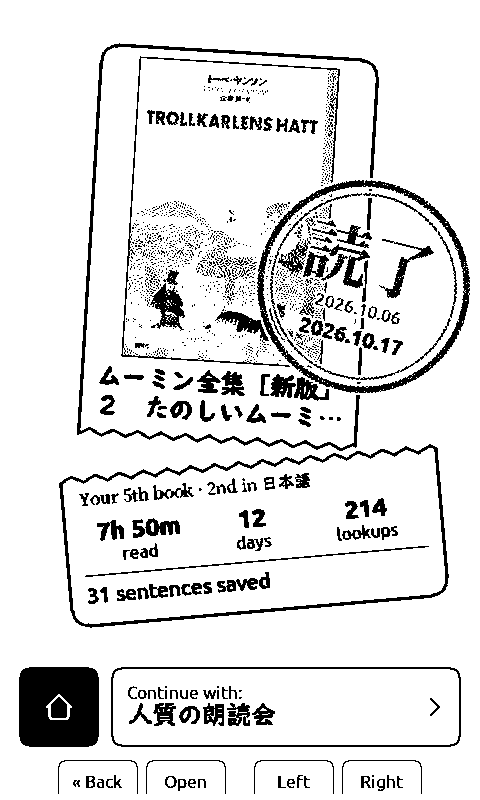
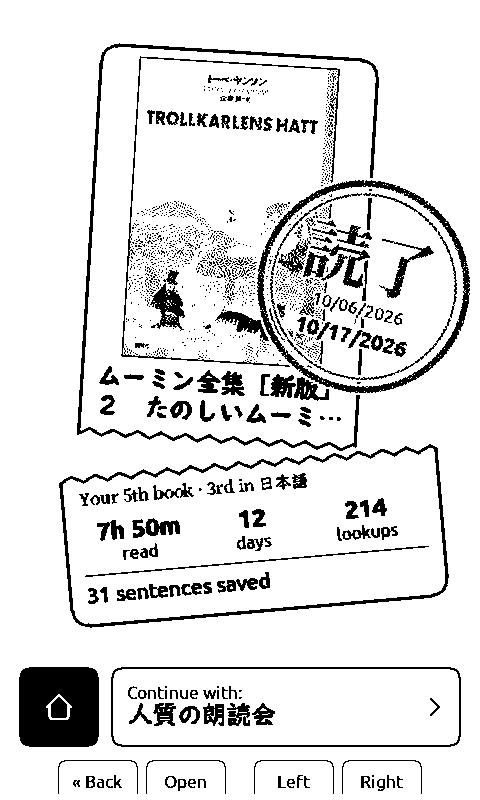
feat: show dates in the interface language
Dates on the end-of-book stamp, the book stats header and the calendar
heading follow each language's pattern (e.g. 17.10.2026, 2026年10月17日).
Japanese and Chinese use 2026.10.17 on the stamp, which is too narrow for
the full form. Stored and uploaded dates keep their fixed format.

Changed region(s): [[0.625, 0.3438, 0.8438, 0.4688], [0.4375, 0.5938, 0.6562, 0.625]]

diff --git a/test/reading_stats/ReadingStatsTest.cpp b/test/reading_stats/ReadingStatsTest.cpp
@@ -14,6 +14,7 @@
 
 #include "BookStats.h"
 #include "ReadingStatsStore.h"
+#include "util/DateFormat.h"
 
 namespace {
 
@@ -690,4 +691,46 @@ TEST_F(StatsTest, BookFinishedEarlierShowsItsLastReadingDayUnsaved) {
 
   ASSERT_TRUE(b.load(path));
   EXPECT_FALSE(b.getFinishDay(y, m, d)) << "a guessed day must not be saved";
+}
+
+// ---- Date display ----
+
+TEST(DateFormat, PatternsPadAndCarryText) {
+  char out[32];
+  formatDate(out, sizeof(out), "DD.MM.YYYY", 2026, 3, 7);
+  EXPECT_STREQ(out, "07.03.2026");
+  formatDate(out, sizeof(out), "YYYY年M月D日", 2026, 3, 7);
+  EXPECT_STREQ(out, "2026年3月7日");
+  formatDate(out, sizeof(out), "N YYYY", 2026, 3, 1, "March");
+  EXPECT_STREQ(out, "March 2026");
+  formatDate(out, sizeof(out), "YYYY. N", 2026, 3, 1, "Március");
+  EXPECT_STREQ(out, "2026. március") << "a month name mid-phrase is lowercased";
+  formatDate(out, 6, "DD.MM.YYYY", 2026, 3, 7);
+  EXPECT_STREQ(out, "07.03") << "truncates to fit";
+}
+
+// Every language's patterns use only known tokens and fit the stamp's 24-byte buffers.
+TEST(DateFormat, EveryLanguageHasUsablePatterns) {
+  auto& i18n = I18n::getInstance();
+  for (uint8_t l = 0; l < static_cast<uint8_t>(Language::_COUNT); l++) {
+    ASSERT_TRUE(i18n.setLanguage(static_cast<Language>(l)));
+    char date[64], heading[64];
+    formatDate(date, sizeof(date), tr(STR_DATE_FORMAT), 2026, 12, 31);
+    formatDate(heading, sizeof(heading), tr(STR_MONTH_YEAR_FORMAT), 2026, 12, 1, tr(STR_MONTH_DEC));
+    const char* code = i18n.getLanguageName(static_cast<Language>(l));
+    EXPECT_NE(strstr(date, "2026"), nullptr) << code << ": " << date;
+    EXPECT_NE(strstr(date, "31"), nullptr) << code << ": " << date;
+    EXPECT_NE(strstr(date, "12"), nullptr) << code << ": " << date;
+    EXPECT_EQ(strpbrk(date, "YMDN"), nullptr) << code << " left a token: " << date;
+    EXPECT_LT(strlen(date), 24u) << code << ": " << date;
+    // The stamp's dates sit inside its ring: CJK languages use the dotted hanko form there.
+    char stamp[24];
+    formatDate(stamp, sizeof(stamp), tr(STR_STAMP_DATE_FORMAT), 2026, 12, 31);
+    EXPECT_EQ(strpbrk(stamp, "YMDN"), nullptr) << code << " left a token: " << stamp;
+    EXPECT_LE(strlen(stamp), 14u) << code << ": " << stamp << " is too wide for the stamp";
+    EXPECT_NE(strstr(heading, tr(STR_MONTH_DEC) + 1), nullptr)
+        << code << ": " << heading;  // case of the first letter may change
+    EXPECT_NE(strstr(heading, "2026"), nullptr) << code << ": " << heading;
+  }
+  i18n.setLanguage(Language::EN);
 }

diff --git a/src/util/DateFormat.h b/src/util/DateFormat.h
@@ -1,0 +1,42 @@
+#pragma once
+#include <cstddef>
+#include <cstdint>
+#include <cstdio>
+#include <cstring>
+
+// Writes a date by a pattern: YYYY, MM and DD are zero-padded, M and D are not, N is `monthName`, lowercased
+// when it is not the first token ("2026. október"); every other byte is copied as is, so a pattern can carry
+// UTF-8 text ("YYYY年M月D日"). Truncates to fit `size`; callers size buffers so that never happens.
+// Display only: stored and uploaded dates keep a fixed format whatever the UI language.
+inline void formatDate(char* out, const size_t size, const char* pattern, const uint16_t year, const uint8_t month,
+                       const uint8_t day, const char* monthName = nullptr) {
+  if (size == 0) return;
+  size_t n = 0;
+  const auto put = [&](const char* s) {
+    for (; *s && n + 1 < size; s++) out[n++] = *s;
+  };
+  char num[8];
+  for (const char* p = pattern ? pattern : ""; *p;) {
+    if (*p == 'N') {
+      const size_t at = n;
+      put(monthName ? monthName : "");
+      if (p != pattern && at < n && out[at] >= 'A' && out[at] <= 'Z') out[at] = static_cast<char>(out[at] - 'A' + 'a');
+      p++;
+      continue;
+    }
+    if (strncmp(p, "YYYY", 4) == 0) {
+      snprintf(num, sizeof(num), "%04u", static_cast<unsigned>(year));
+      p += 4;
+    } else if (*p == 'M' || *p == 'D') {
+      const bool padded = p[1] == p[0];
+      snprintf(num, sizeof(num), padded ? "%02u" : "%u", static_cast<unsigned>(*p == 'M' ? month : day));
+      p += padded ? 2 : 1;
+    } else {
+      if (n + 1 < size) out[n++] = *p;
+      p++;
+      continue;
+    }
+    put(num);
+  }
+  out[n] = '\0';
+}

diff --git a/src/activities/home/BookStatsActivity.cpp b/src/activities/home/BookStatsActivity.cpp
@@ -15,6 +15,7 @@
 #include "components/icons/dictionaryIcons.h"
 #include "components/icons/stats_icons.h"
 #include "fontIds.h"
+#include "util/DateFormat.h"
 
 namespace {
 // Adapters that let StatsWidgets read a BookStats without knowing the type.
@@ -139,16 +140,16 @@ void BookStatsActivity::render(RenderLock&&) {
       // is then unknown rather than shown after the finish.
       const bool startKnown = !finished || std::tie(first.year, first.month, first.day) <=
                                                std::tie(marks.finishYear, marks.finishMonth, marks.finishDay);
-      char start[12] = {};
+      char start[24] = {};
       if (startKnown) {
         marks.startYear = first.year;
         marks.startMonth = first.month;
         marks.startDay = first.day;
-        snprintf(start, sizeof(start), "%04u.%02u.%02u", first.year, first.month, first.day);
+        formatDate(start, sizeof(start), tr(STR_DATE_FORMAT), first.year, first.month, first.day);
       }
       if (finished) {
-        char finish[12];
-        snprintf(finish, sizeof(finish), "%04u.%02u.%02u", marks.finishYear, marks.finishMonth, marks.finishDay);
+        char finish[24];
+        formatDate(finish, sizeof(finish), tr(STR_DATE_FORMAT), marks.finishYear, marks.finishMonth, marks.finishDay);
         snprintf(dateLine, sizeof(dateLine), startKnown ? "%s – %s" : "%s%s", start, finish);
       } else {
         snprintf(dateLine, sizeof(dateLine), tr(STR_STAT_SINCE_FORMAT), start);

diff --git a/src/activities/reader/EndOfBookOptions.cpp b/src/activities/reader/EndOfBookOptions.cpp
@@ -30,6 +30,7 @@
 #include "fontIds.h"
 #include "util/ButtonNavigator.h"
 #include "util/CjkScript.h"
+#include "util/DateFormat.h"
 #include "util/NextBookFinder.h"
 
 namespace {
@@ -358,13 +359,12 @@ void EndOfBookOptions::loadSummary(const std::string& bookPath, const char* book
   uint16_t year = today.year;
   uint8_t month = today.month, day = today.day;
   stats.getFinishDay(year, month, day);
-  snprintf(summary.finishedOn, sizeof(summary.finishedOn), "%04u.%02u.%02u", static_cast<unsigned>(year),
-           static_cast<unsigned>(month), static_cast<unsigned>(day));
+  formatDate(summary.finishedOn, sizeof(summary.finishedOn), tr(STR_STAMP_DATE_FORMAT), year, month, day);
   if (!stats.getDays().empty() && std::tie(stats.getDays().front().year, stats.getDays().front().month,
                                            stats.getDays().front().day) <= std::tie(year, month, day)) {
     const BookDay& first = stats.getDays().front();
-    snprintf(summary.startedOn, sizeof(summary.startedOn), "%04u.%02u.%02u", static_cast<unsigned>(first.year),
-             static_cast<unsigned>(first.month), static_cast<unsigned>(first.day));
+    formatDate(summary.startedOn, sizeof(summary.startedOn), tr(STR_STAMP_DATE_FORMAT), first.year, first.month,
+               first.day);
     if (strcmp(summary.startedOn, summary.finishedOn) == 0) summary.startedOn[0] = '\0';
   }
 

diff --git a/src/components/StatsWidgets.cpp b/src/components/StatsWidgets.cpp
@@ -13,6 +13,7 @@
 #include "components/icons/flame.h"
 #include "components/icons/stats_icons.h"
 #include "fontIds.h"
+#include "util/DateFormat.h"
 
 namespace StatsWidgets {
 
@@ -177,7 +178,7 @@ int drawMonthCalendar(const GfxRenderer& renderer, const int x, const int y, con
 
   // Month/year header with chevrons
   char monthBuf[64];
-  snprintf(monthBuf, sizeof(monthBuf), "%s %d", monthName(calMonth), calYear);
+  formatDate(monthBuf, sizeof(monthBuf), tr(STR_MONTH_YEAR_FORMAT), calYear, calMonth, 1, monthName(calMonth));
   const int monthW = renderer.getTextWidth(UI_12_FONT_ID, monthBuf, EpdFontFamily::BOLD);
   const int monthX = x + (w - monthW) / 2;
   const int monthY = y + 12;

diff --git a/src/activities/reader/EndOfBookOptions.h b/src/activities/reader/EndOfBookOptions.h
@@ -65,8 +65,8 @@ class EndOfBookOptions {
     uint16_t booksFinished = 0;
     uint16_t languageBooksFinished = 0;
     std::string languageName;  // empty when the book declares no language
-    char startedOn[12] = {};   // first reading day, "2026.10.11"; empty when unknown or the same day
-    char finishedOn[12] = {};  // "2026.10.15", the date on the stamp
+    char startedOn[24] = {};   // first reading day, in the stamp's date format; empty when unknown or the same day
+    char finishedOn[24] = {};  // the date on the stamp, e.g. "15.10.2026", or "2026.10.15" in Japanese
   };
   Summary summary;
   void loadSummary(const std::string& bookPath, const char* bookLanguage);

diff --git a/USER_GUIDE.md b/USER_GUIDE.md
@@ -1639,6 +1639,10 @@ days read, words looked up, sentences saved and a calendar of the days you read 
 day you started the book and the day you finished it, or "since" the start while you are still reading. On the
 calendar the start day has a dotted ring and the finish day a solid one.
 
+Dates are shown the way your interface language writes them, e.g. 17.10.2026 in German or 2026年10月17日 in
+Japanese (the end-of-book stamp uses the shorter 2026.10.17 there). The device stores them in one fixed format,
+so switching language changes only how they look.
+
 **Words looked up** counts each word whose entry you opened, once each time you open the lookup screen. Moving
 back and forth over the same word does not count it twice. **Sentences saved** counts the cards added to your
 sentence-mining file.
